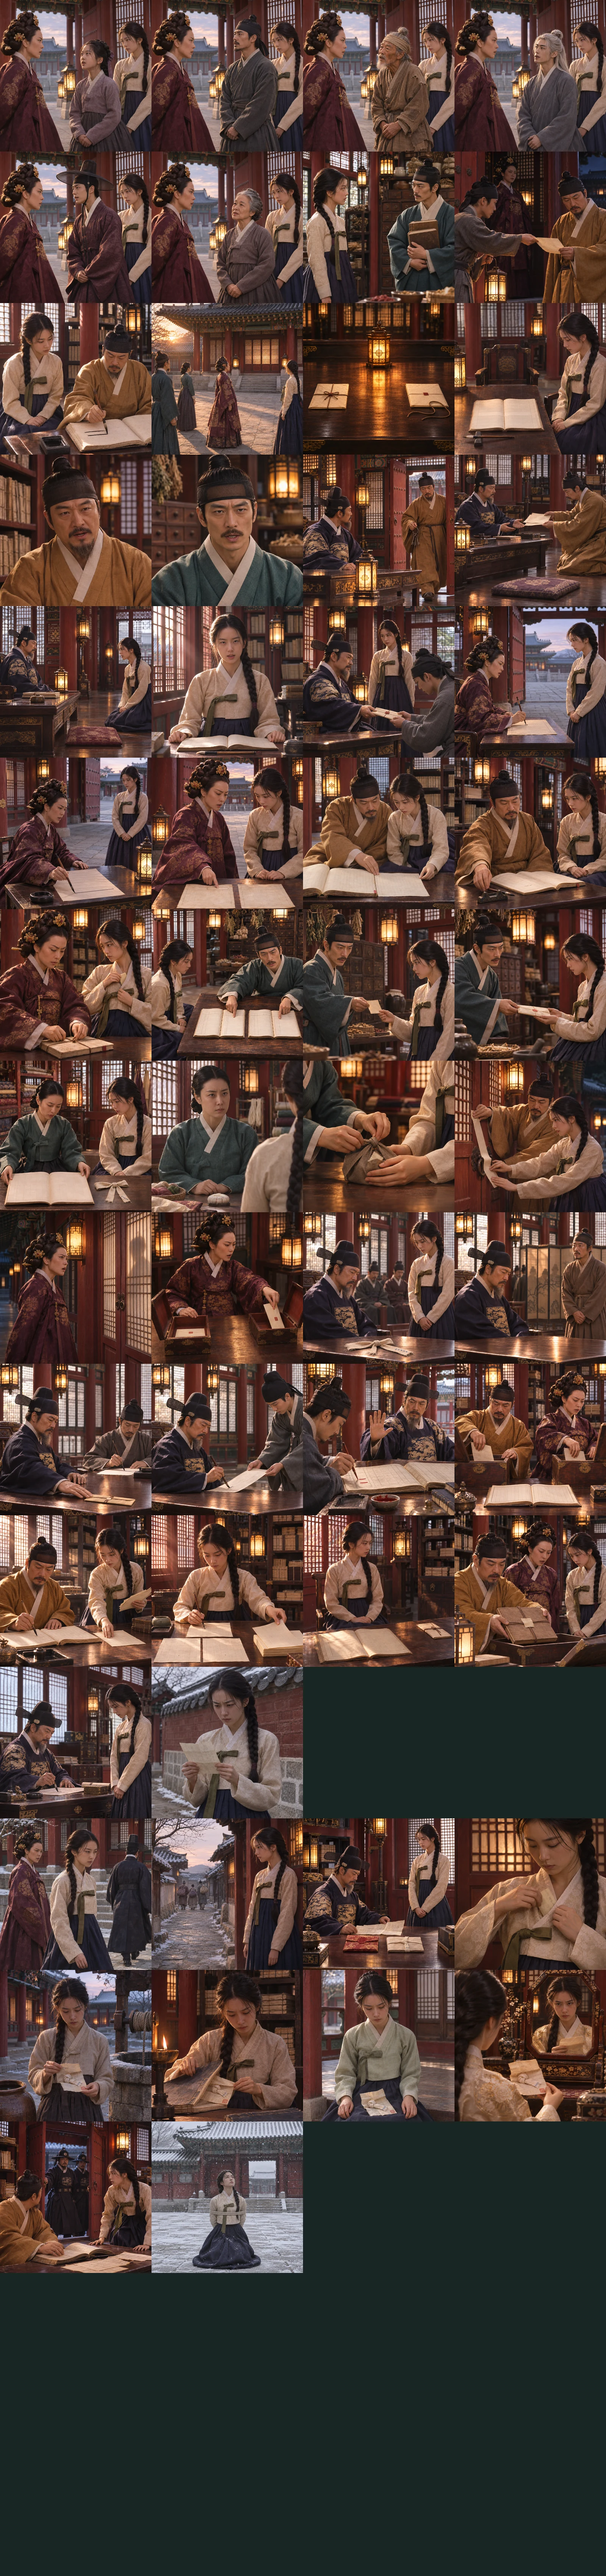
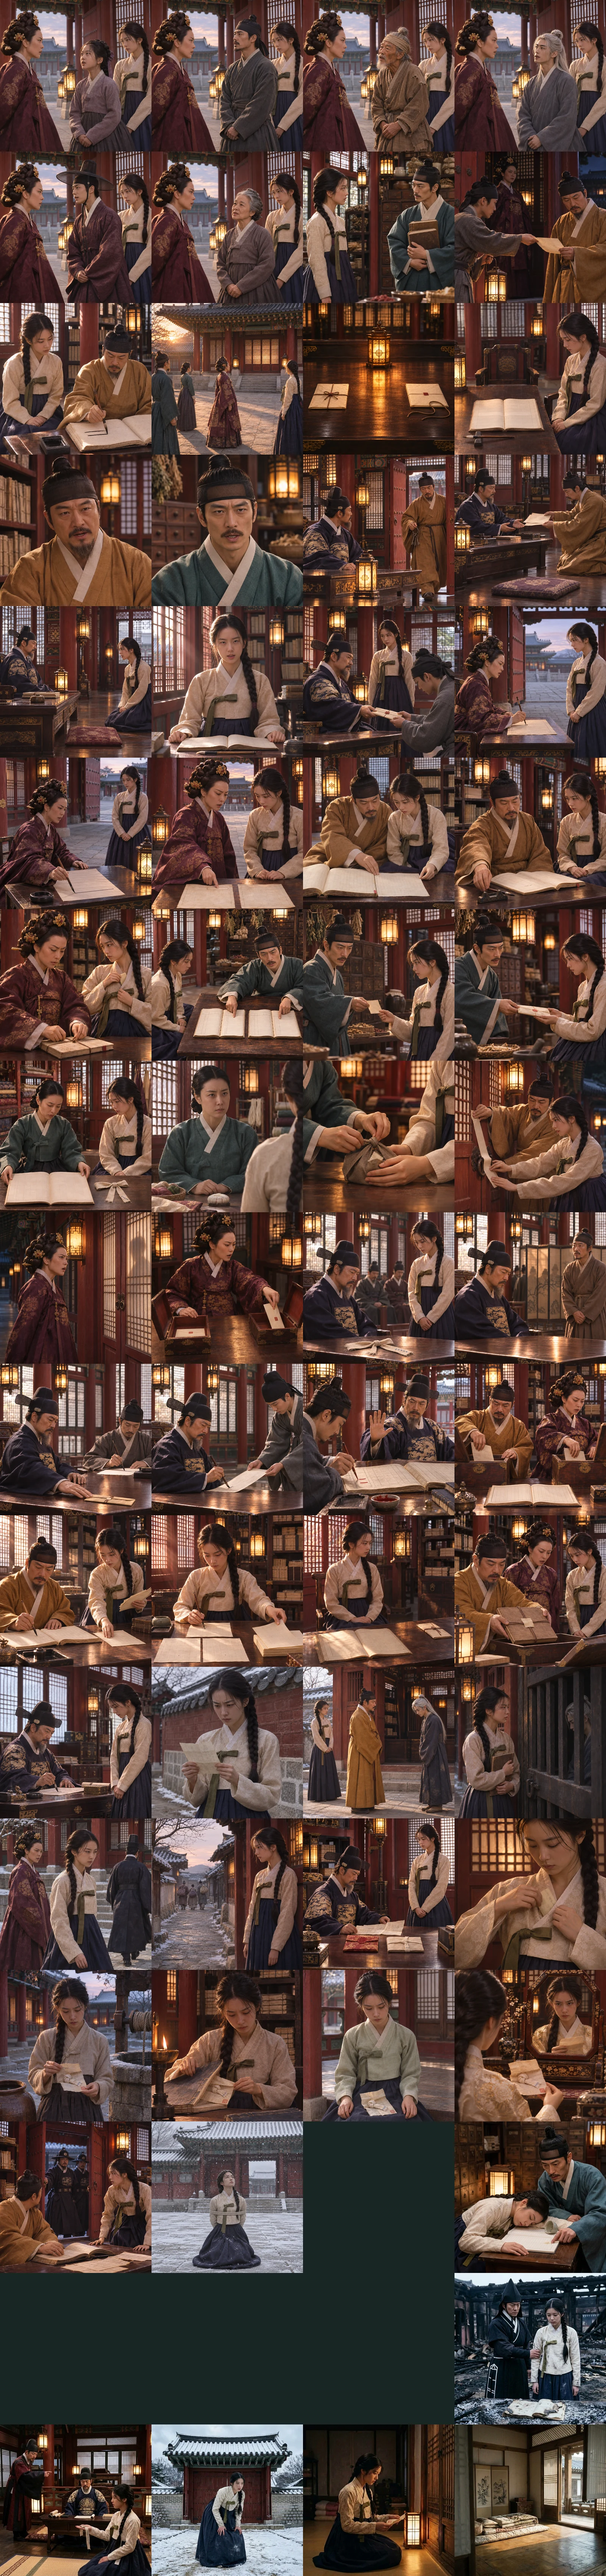
시즌 3 새 컷 반영: S3-47·48(백문재 얼굴 바로잡아 다시 그림), S3-60·64~68 실패 결말
Claude-Session: https://claude.ai/code/session_01VZgG2bX25gLRz4FyidLT13

Changed region(s): [[0.0, 0.8106, 1.0, 1.0], [0.5, 0.6235, 1.0, 0.7171]]

diff --git a/site/season-3-new-slots.js b/site/season-3-new-slots.js
@@ -1,3 +1,3 @@
 // tools/build-new-cuts.py가 만든다. season-3-new.webp에 실제로 들어간 새 컷과 칸 번호.
-var NEW_CUT_SLOTS_3 = {'S3-01':0,'S3-02':1,'S3-03':2,'S3-04':3,'S3-05':4,'S3-06':5,'S3-07':6,'S3-08':7,'S3-09':8,'S3-10':9,'S3-11':10,'S3-12':11,'S3-13':12,'S3-14':13,'S3-15':14,'S3-16':15,'S3-17':16,'S3-18':17,'S3-19':18,'S3-20':19,'S3-21':20,'S3-22':21,'S3-23':22,'S3-24':23,'S3-25':24,'S3-26':25,'S3-27':26,'S3-28':27,'S3-29':28,'S3-30':29,'S3-31':30,'S3-32':31,'S3-33':32,'S3-34':33,'S3-35':34,'S3-36':35,'S3-37':36,'S3-38':37,'S3-39':38,'S3-40':39,'S3-41':40,'S3-42':41,'S3-43':42,'S3-44':43,'S3-45':44,'S3-46':45,'S3-49':48,'S3-50':49,'S3-51':50,'S3-52':51,'S3-53':52,'S3-54':53,'S3-55':54,'S3-56':55,'S3-57':56,'S3-58':57};
+var NEW_CUT_SLOTS_3 = {'S3-01':0,'S3-02':1,'S3-03':2,'S3-04':3,'S3-05':4,'S3-06':5,'S3-07':6,'S3-08':7,'S3-09':8,'S3-10':9,'S3-11':10,'S3-12':11,'S3-13':12,'S3-14':13,'S3-15':14,'S3-16':15,'S3-17':16,'S3-18':17,'S3-19':18,'S3-20':19,'S3-21':20,'S3-22':21,'S3-23':22,'S3-24':23,'S3-25':24,'S3-26':25,'S3-27':26,'S3-28':27,'S3-29':28,'S3-30':29,'S3-31':30,'S3-32':31,'S3-33':32,'S3-34':33,'S3-35':34,'S3-36':35,'S3-37':36,'S3-38':37,'S3-39':38,'S3-40':39,'S3-41':40,'S3-42':41,'S3-43':42,'S3-44':43,'S3-45':44,'S3-46':45,'S3-47':46,'S3-48':47,'S3-49':48,'S3-50':49,'S3-51':50,'S3-52':51,'S3-53':52,'S3-54':53,'S3-55':54,'S3-56':55,'S3-57':56,'S3-58':57,'S3-60':59,'S3-64':63,'S3-65':64,'S3-66':65,'S3-67':66,'S3-68':67};
 var NEW_CUT_ROWS_3 = 17;
